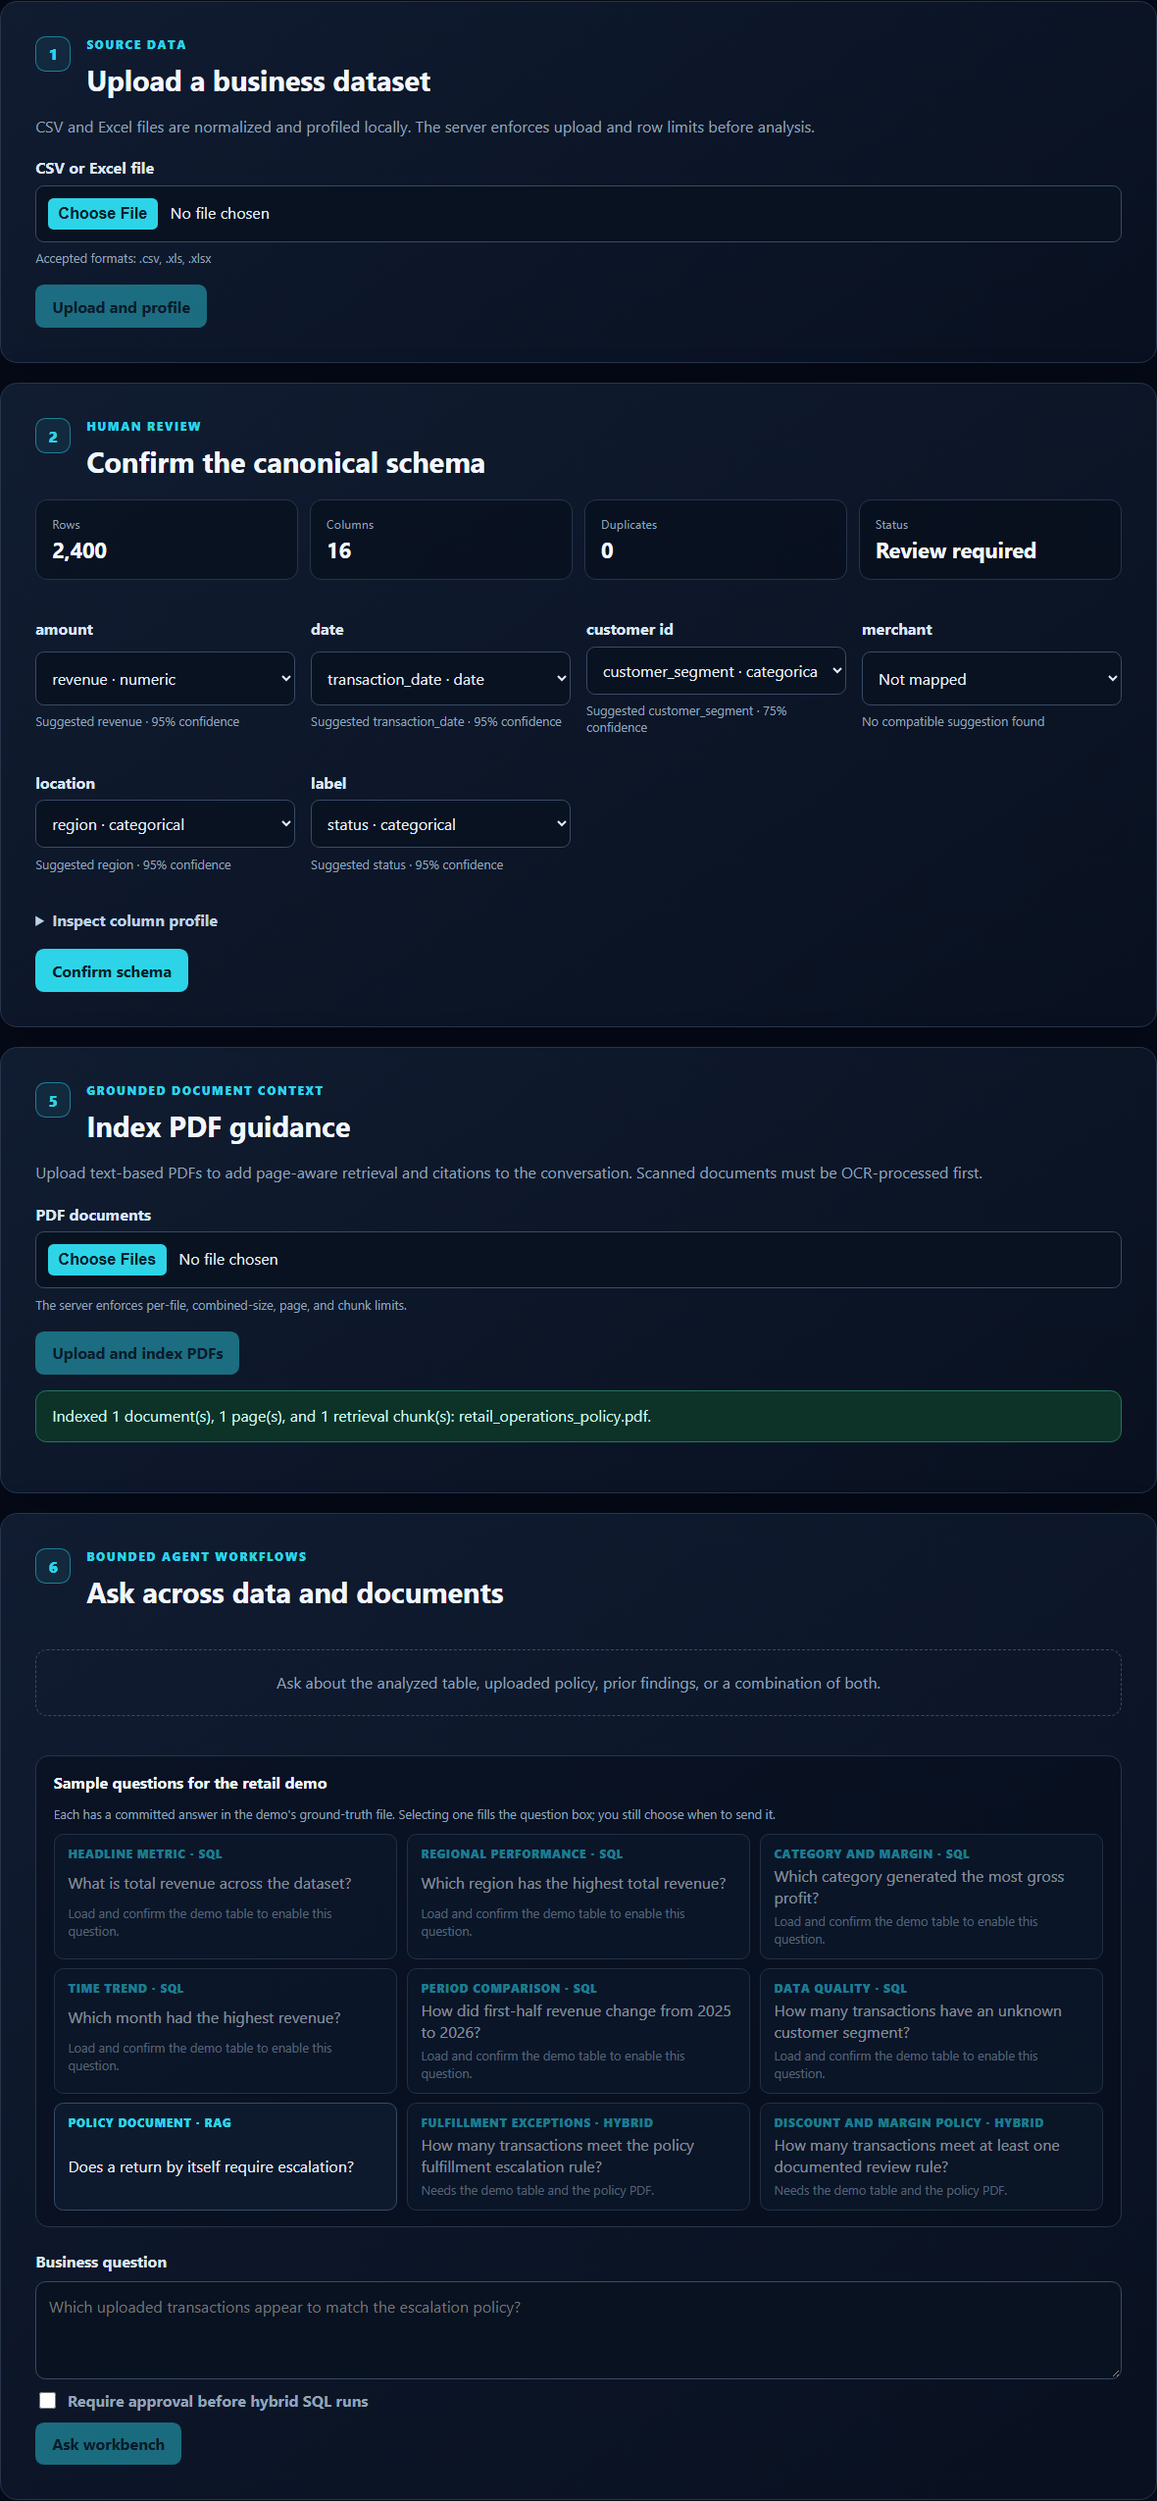
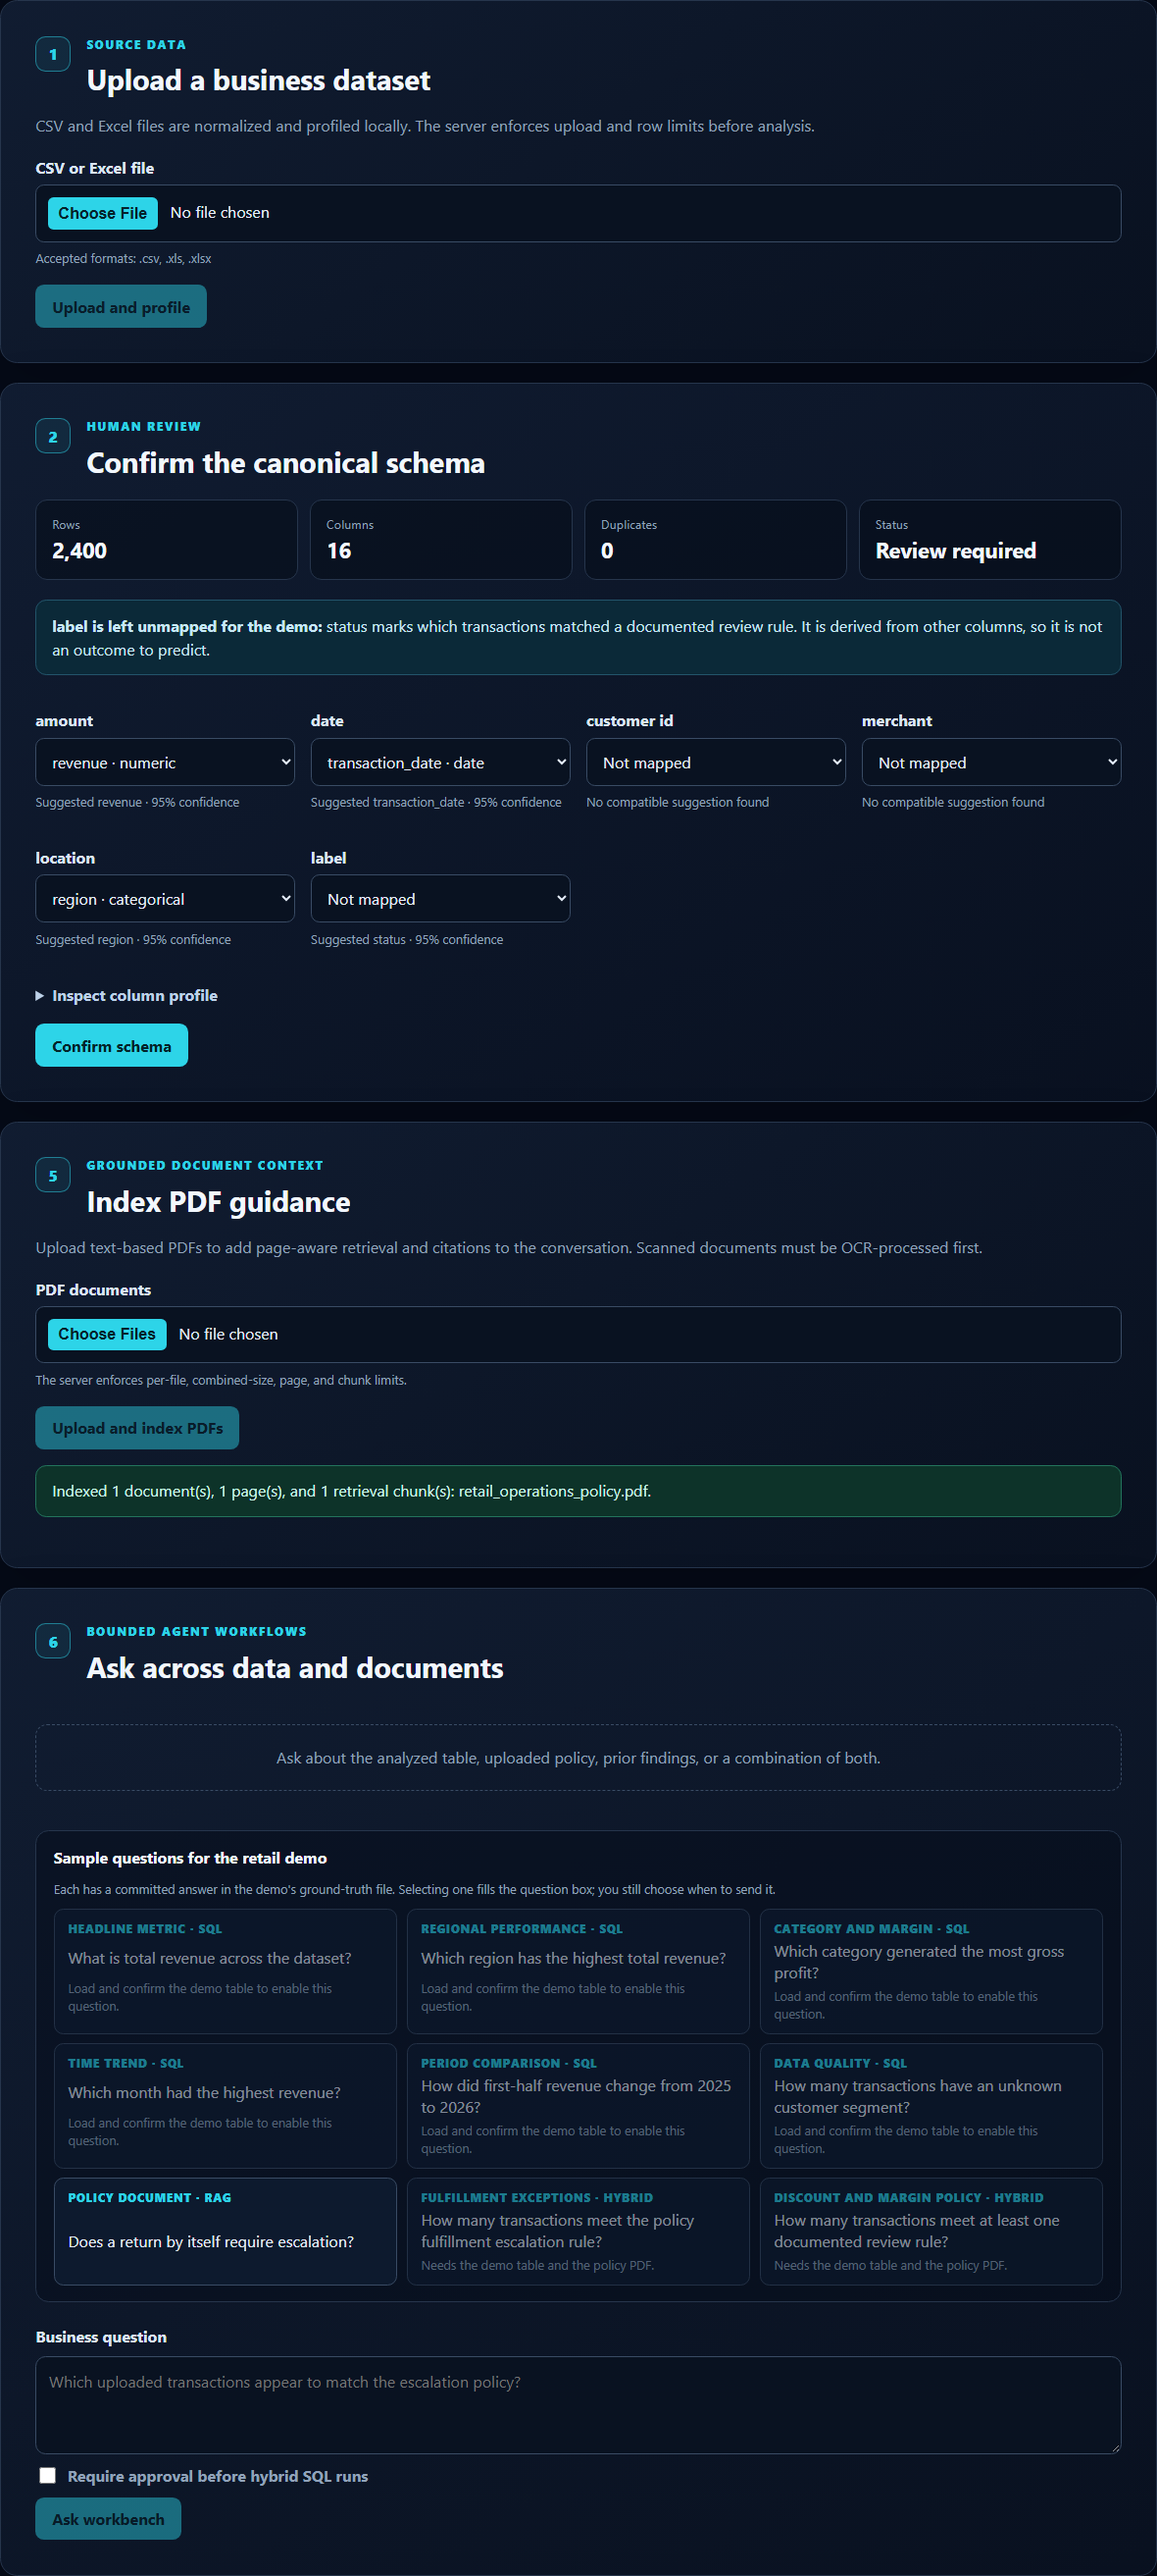
fix: stop suggesting customer_segment as a customer ID; leave the demo label unmapped
The mapper matched any column containing an identifier alias as a word, so "customer_segment"
(3 distinct values over 2,400 rows) was suggested as customer_id at 75% confidence. Partial name
matches for identifier fields (customer_id, merchant) now ignore columns whose extra words are
descriptors such as segment, tier, type, or group; exact aliases like customer_id still match.

"status" stays a general label alias, but in the bundled retail table it is derived from the review
rules, so mapping it would enable a classifier that only rediscovers them. Schema review now leaves
label unmapped for retail_operations.csv and says why; other files are unaffected.

Adds mapper regression tests, SchemaReview unit tests, real-stack browser assertions on the
suggested mapping (20/20 real-stack journeys pass), corrects the walkthrough, and refreshes the
schema-review screenshot from the real stack.

diff --git a/apps/web/src/components/SchemaReview.tsx b/apps/web/src/components/SchemaReview.tsx
@@ -1,6 +1,7 @@
 import { useMemo, useState } from "react";
 
 import type { Dataset, SchemaMappingUpdate } from "../api/client";
+import { DEMO_DATA_FILENAME, DEMO_UNMAPPED_FIELDS } from "../demo/retailDemo";
 import { StatusBanner } from "./StatusBanner";
 
 const CANONICAL_FIELDS = [
@@ -24,9 +25,16 @@ const REQUIRED_TYPES: Record<CanonicalField, string[]> = {
   label: ["categorical", "boolean", "numeric"],
 };
 
+/** Fields the bundled demo file deliberately leaves unmapped (empty for any other file). */
+function intentionallyUnmapped(dataset: Dataset): Record<string, string> {
+  return dataset.filename === DEMO_DATA_FILENAME ? { ...DEMO_UNMAPPED_FIELDS } : {};
+}
+
 function initialMapping(dataset: Dataset): MappingDraft {
+  const unmapped = intentionallyUnmapped(dataset);
   return Object.fromEntries(
     CANONICAL_FIELDS.map((field) => {
+      if (field in unmapped) return [field, ""];
       const suggestion = dataset.schema_mapping.mappings[field];
       const source = suggestion && suggestion.confidence >= 0.5 ? suggestion.source_column : null;
       return [field, source ?? ""];
@@ -42,6 +50,7 @@ interface SchemaReviewProps {
 
 export function SchemaReview({ dataset, busy, onConfirm }: SchemaReviewProps) {
   const [mapping, setMapping] = useState<MappingDraft>(() => initialMapping(dataset));
+  const unmapped = useMemo(() => intentionallyUnmapped(dataset), [dataset]);
   const lowConfidenceFields = useMemo(
     () =>
       CANONICAL_FIELDS.filter((field) => {
@@ -98,6 +107,12 @@ export function SchemaReview({ dataset, busy, onConfirm }: SchemaReviewProps) {
           </StatusBanner>
         )),
       )}
+
+      {Object.entries(unmapped).map(([field, reason]) => (
+        <StatusBanner kind="info" key={`unmapped-${field}`}>
+          <strong>{field.replaceAll("_", " ")} is left unmapped for the demo:</strong> {reason}
+        </StatusBanner>
+      ))}
 
       {lowConfidenceFields.length > 0 ? (
         <StatusBanner kind="info">

diff --git a/apps/web/src/components/SchemaReview.test.tsx b/apps/web/src/components/SchemaReview.test.tsx
@@ -27,4 +27,38 @@ describe("SchemaReview", () => {
     expect(screen.getByLabelText("amount")).toHaveValue("");
     expect(screen.getByText("Low-confidence suggestions are not selected automatically", { exact: false })).toBeVisible();
   });
+
+  const withSuggestedLabel = (filename: string): Dataset => ({
+    ...reviewDatasetFixture,
+    filename,
+    schema_mapping: {
+      ...reviewDatasetFixture.schema_mapping,
+      mappings: {
+        ...reviewDatasetFixture.schema_mapping.mappings,
+        label: {
+          canonical_field: "label",
+          source_column: "merchant",
+          confidence: 0.95,
+          reason: "Column name directly matches a known alias for label.",
+        },
+      },
+    },
+  });
+
+  it("leaves the label unmapped for the bundled demo file and says why", () => {
+    render(
+      <SchemaReview dataset={withSuggestedLabel("retail_operations.csv")} busy={false} onConfirm={vi.fn()} />,
+    );
+
+    expect(screen.getByLabelText("label")).toHaveValue("");
+    expect(screen.getByText("label is left unmapped for the demo:")).toBeVisible();
+    expect(screen.getByText("not an outcome to predict", { exact: false })).toBeVisible();
+  });
+
+  it("keeps a confident label suggestion for any other file", () => {
+    render(<SchemaReview dataset={withSuggestedLabel("my_data.csv")} busy={false} onConfirm={vi.fn()} />);
+
+    expect(screen.getByLabelText("label")).toHaveValue("merchant");
+    expect(screen.queryByText("label is left unmapped for the demo:")).toBeNull();
+  });
 });

diff --git a/apps/web/e2e/real/retail-journey.spec.ts b/apps/web/e2e/real/retail-journey.spec.ts
@@ -124,6 +124,15 @@ test("demo ingestion goes through schema review; data questions wait for confirm
 
   await expect(page.getByRole("heading", { name: "Confirm the canonical schema" })).toBeVisible();
   await expect(page.getByText("Indexed 1 document(s)", { exact: false })).toBeVisible();
+  // The real mapper's suggestions for this table: the measure, date, and region are mapped;
+  // "customer_segment" is a grouping rather than an ID, and "status" is a derived flag, so the
+  // customer ID and label stay unmapped (with the reason shown for the label).
+  await expect(page.getByLabel("amount")).toHaveValue("revenue");
+  await expect(page.getByLabel("date")).toHaveValue("transaction_date");
+  await expect(page.getByLabel("location")).toHaveValue("region");
+  await expect(page.getByLabel("customer id")).toHaveValue("");
+  await expect(page.getByLabel("label")).toHaveValue("");
+  await expect(page.getByText("label is left unmapped for the demo:")).toBeVisible();
   const samples = page.getByRole("region", { name: /Sample questions/ });
   await expect(samples.getByRole("button", { name: REGION })).toBeDisabled();
   // Nothing model-backed is enabled until the data-sharing notice is accepted.

diff --git a/apps/web/src/demo/retailDemo.ts b/apps/web/src/demo/retailDemo.ts
@@ -41,6 +41,19 @@ export async function fetchDemoFile(spec: DemoFile): Promise<File> {
   return new File([await response.blob()], spec.filename, { type: spec.type });
 }
 
+/**
+ * Canonical fields the demo deliberately leaves unmapped, with the reason shown in schema review.
+ * The mapper's suggestion for `label` is `status`, but in this table `status` records whether a
+ * documented review rule matched. It is derived from other columns, so it is not an outcome to
+ * predict, and mapping it would offer a classifier that only rediscovers the rule. This is advice
+ * for the one bundled file, identified by name; the mapper's behaviour for other data is unchanged.
+ */
+export const DEMO_UNMAPPED_FIELDS: Readonly<Record<string, string>> = {
+  label:
+    "status marks which transactions matched a documented review rule. It is derived from other " +
+    "columns, so it is not an outcome to predict.",
+};
+
 export type DemoNeeds = "data" | "policy" | "both";
 
 export interface DemoQuestion {

diff --git a/tests/test_schema_mapper.py b/tests/test_schema_mapper.py
@@ -91,3 +91,34 @@ def test_bare_id_does_not_partially_match_customer_id() -> None:
     mapping = map_schema(profile)
 
     assert mapping.mappings["customer_id"].source_column is None
+
+
+@pytest.mark.parametrize("column", ["customer_segment", "customer_tier", "client_type"])
+def test_a_column_that_describes_customers_is_not_suggested_as_the_customer_id(
+    column: str,
+) -> None:
+    dataframe = pd.DataFrame({column: ["A", "B", "A"], "amount": [1.0, 2.0, 3.0]})
+
+    assert "customer_id" not in map_schema(profile_dataframe(dataframe)).mapped_fields()
+
+
+def test_identifier_columns_with_extra_words_are_still_suggested() -> None:
+    dataframe = pd.DataFrame({"customer_number": ["a1", "a2"], "store_name": ["X", "Y"]})
+
+    mapped = map_schema(profile_dataframe(dataframe)).mapped_fields()
+
+    assert mapped["customer_id"] == "customer_number"
+    assert mapped["merchant"] == "store_name"
+
+
+def test_the_retail_demo_table_gets_no_customer_id_suggestion() -> None:
+    from pathlib import Path
+
+    demo = pd.read_csv(Path(__file__).resolve().parents[1] / "sample_data/retail_operations.csv")
+
+    mapped = map_schema(profile_dataframe(demo)).mapped_fields()
+
+    assert mapped["amount"] == "revenue"
+    assert mapped["date"] == "transaction_date"
+    assert mapped["location"] == "region"
+    assert "customer_id" not in mapped

diff --git a/src/profiling/schema_mapper.py b/src/profiling/schema_mapper.py
@@ -80,6 +80,15 @@ FIELD_ALIASES = {
     },
 }
 
+# Fields that name an entity. A column whose name adds one of these descriptors to an alias
+# ("customer_segment", "store_type") describes the entity rather than identifying it, so a partial
+# name match is not enough. An exact alias such as "customer_id" is still accepted.
+IDENTIFIER_FIELDS = frozenset({"customer_id", "merchant"})
+DESCRIPTOR_TOKENS = frozenset(
+    {"segment", "tier", "type", "group", "category", "class", "status", "level", "channel"}
+    | {"cohort", "grade", "rank", "size"}
+)
+
 REQUIRED_TYPES = {
     "amount": {"numeric"},
     "date": {"date"},
@@ -218,6 +227,12 @@ def _score_column_for_field(field: str, column: ColumnProfile) -> FieldMapping:
     for alias in aliases:
         alias_tokens = set(alias.split("_"))
         if alias_tokens.issubset(normalized_tokens):
+            # "customer_segment" names a grouping of customers, not a customer identifier.
+            if (
+                field in IDENTIFIER_FIELDS
+                and (normalized_tokens - alias_tokens) & DESCRIPTOR_TOKENS
+            ):
+                continue
             return FieldMapping(
                 canonical_field=field,
                 source_column=column.name,

diff --git a/docs/operations/demo-walkthrough.md b/docs/operations/demo-walkthrough.md
@@ -31,8 +31,10 @@ exercised for this walkthrough.
    ![Home and demo guide](../assets/demo/01-home-and-demo-guide.png)
 2. **Load the demo (1 min).** Press *Load demo data and policy*. It uses the normal upload
    endpoints, so nothing is preloaded or exempt from validation. Review the suggested mapping and
-   press *Confirm schema* (the suggested customer ID and label are not meaningful for this table;
-   no sample question uses them).
+   press *Confirm schema*. Revenue, transaction date, and region are suggested automatically;
+   *customer ID* and *label* are left unmapped on purpose (`customer_segment` groups customers
+   rather than identifying them, and `status` is derived from the review rules, so predicting it
+   would only rediscover them). The page says so. No sample question uses either field.
    ![Schema review and sample questions](../assets/demo/02-schema-review.png)
 3. **Deterministic analysis (1 min).** *Run deterministic analysis*: profile, trends, anomaly
    candidates, a business summary. No model involved.
